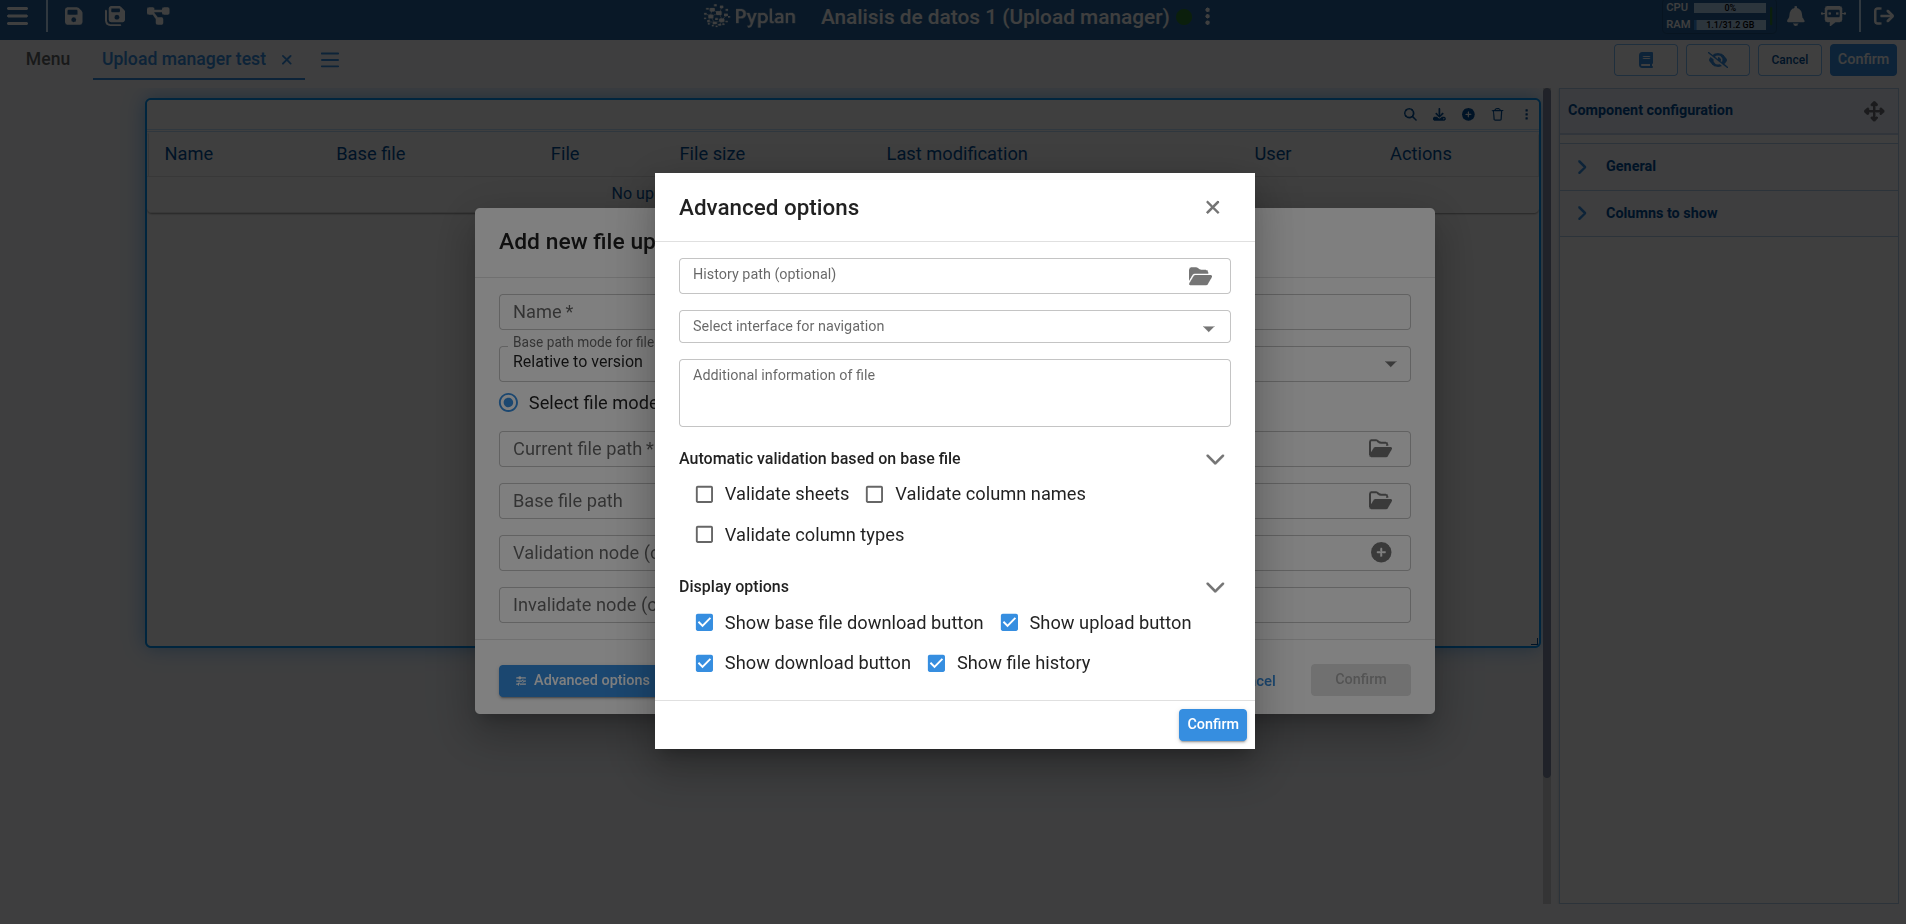
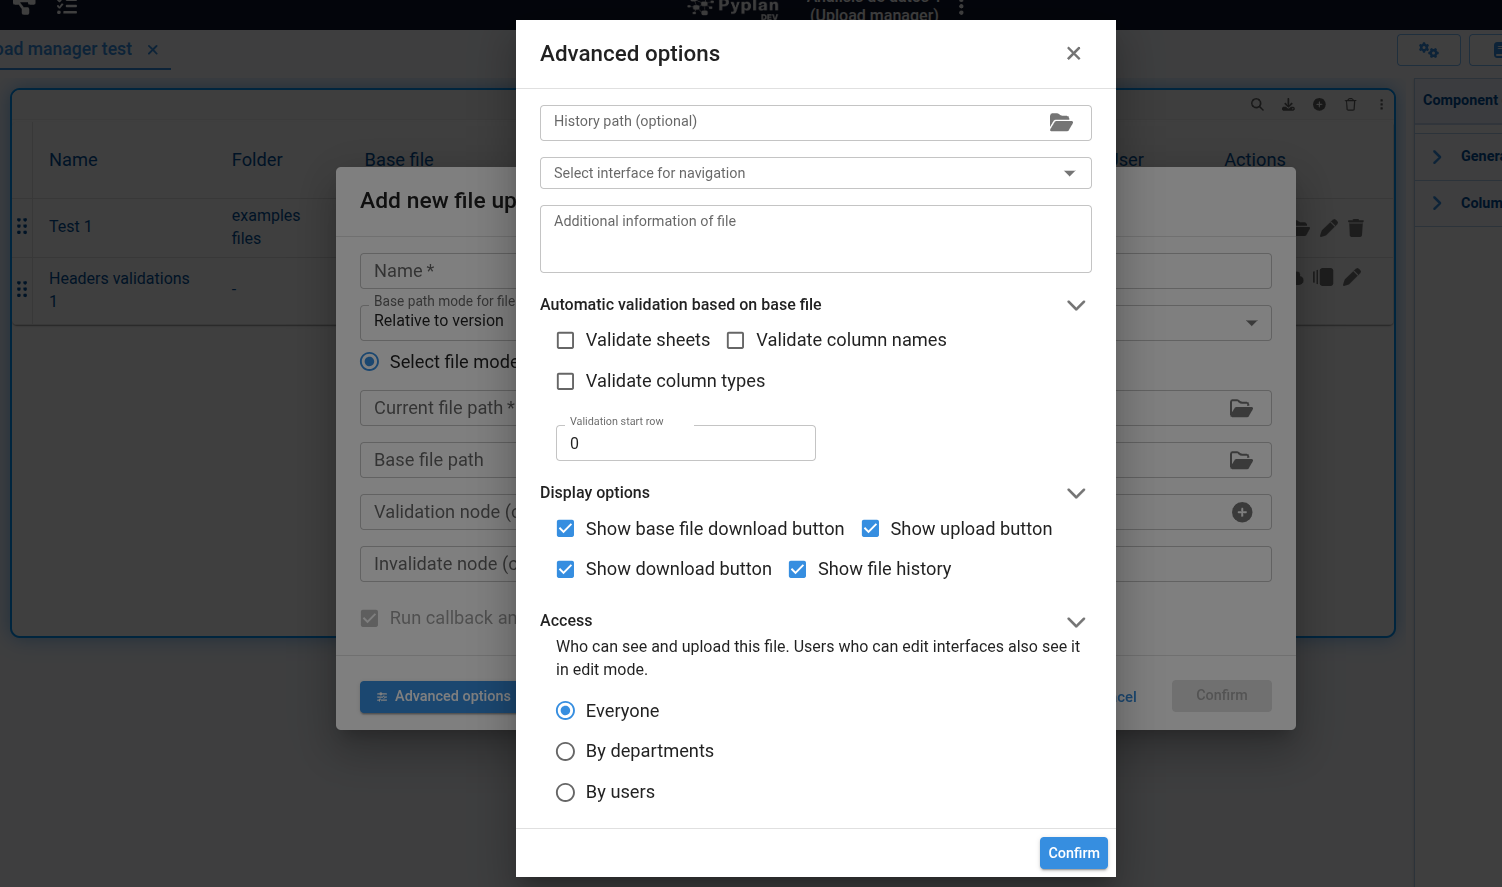
update uploadmanager with run callback when restore doc

diff --git a/docs/user-guide/interfaces/interface-components/upload-manager.md b/docs/user-guide/interfaces/interface-components/upload-manager.md
@@ -28,12 +28,17 @@ Clicking **Add** opens a dialog with the basic configuration options for each it
 The file path fields must refer to a file that already exists in the system and has been previously uploaded via the file manager.
 :::
 
-Below the file path configuration, there is an optional section to define nodes that perform actions when a new file is uploaded:
+Below the file path configuration, there is an optional section to define nodes that perform actions when a new file is uploaded or a file is restored from history:
 
 - **Validation node**: Runs custom validations when a new file is being uploaded. It should be a function-type node that receives a file path as a parameter and returns a boolean indicating validation success.
-- **Callback node**: Executed once the file has been successfully uploaded. It allows for additional actions such as notifying the user or updating other components. It is a function-type node that receives no parameters and returns no value.
-- **Invalidation node**: Also executed after a successful upload but used to invalidate a selected node for a specific purpose. No specific structure is required.
+- **Callback node**: Executed once the file has been successfully uploaded or restored from history. It allows for additional actions such as notifying the user or updating other components. It is a function-type node that receives no parameters and returns no value.
+- **Invalidation node**: Also executed after a successful upload or restore, but used to invalidate a selected node for a specific purpose. No specific structure is required.
 - **History count**: A numeric field to define how many historical versions of the uploaded files the item will keep.
+- **Run callback and invalidate nodes when restoring a file from history**: Enabled by default. When checked, restoring a file from history runs the invalidation node and the callback node, just like a new upload. Uncheck it if these nodes should only run on new uploads, for example when the callback has side effects that shouldn't be repeated. The option is available only when a callback or invalidation node is set, and it's hidden in folder mode, which has no history.
+
+:::note
+The invalidation node and the callback node run after the file is saved. If one of them fails, the file stays uploaded (or restored) and the table shows it, but an error message indicates which node failed. If the invalidation node fails, the callback node doesn't run.
+:::
 
 **File mode options:**
 - **Select file mode** (default): A checkbox lets you choose to preserve the current file name or replace it with the uploaded file's name. In this mode, the current file path input must be a file — folders are not allowed.
@@ -99,7 +104,7 @@ Click the upload button to open a dialog where you can select the file to upload
 
 ![Upload Manager Upload 2](../../img/interfaces/uploadmanager_8.png)
 
-Once selected, automatic validations are performed and the file is uploaded into the system.
+Once selected, automatic validations are performed and the file is uploaded into the system. If the item has an invalidation node or a callback node, they run after the file is saved.
 
 ![Upload Manager Upload 3](../../img/interfaces/uploadmanager_9.png)
 
@@ -111,11 +116,17 @@ After a successful upload, the component's table is updated to reflect the new f
 
 ### Viewing Upload History
 
-Click the history button to open a dialog showing previously uploaded files with details such as upload date, the user who uploaded them, and file size. From this dialog, you can also download previously uploaded files, restore a file from history (replacing the current file with the selected version), or delete a history item.
+Click the history button to open a dialog listing the previous versions of the file. Each entry is a version that was replaced by an upload or a restore, and shows the date it was replaced, the user who replaced it, and its size. From this dialog, you can download a previous version, restore it, or delete it from the history.
 
 ![Upload Manager History 1](../../img/interfaces/uploadmanager_12.png)
 
 ![Upload Manager History 2](../../img/interfaces/uploadmanager_config_4.png)
+
+#### Restoring a File
+
+Restoring a version replaces the current file with the selected one, after a confirmation. The replaced file is added to the history as a new entry, so you can go back to it by restoring it. If **Preserve existing filename** is checked, the restored file keeps the current file name; otherwise, it gets back the name it had when it was uploaded.
+
+If **Run callback and invalidate nodes when restoring a file from history** is checked (the default), the invalidation node and the callback node run after the file is restored, as they do after a new upload. If one of them fails, the file is still restored, and a warning notification shows which node failed and why.
 
 ### Folder Mode
 
